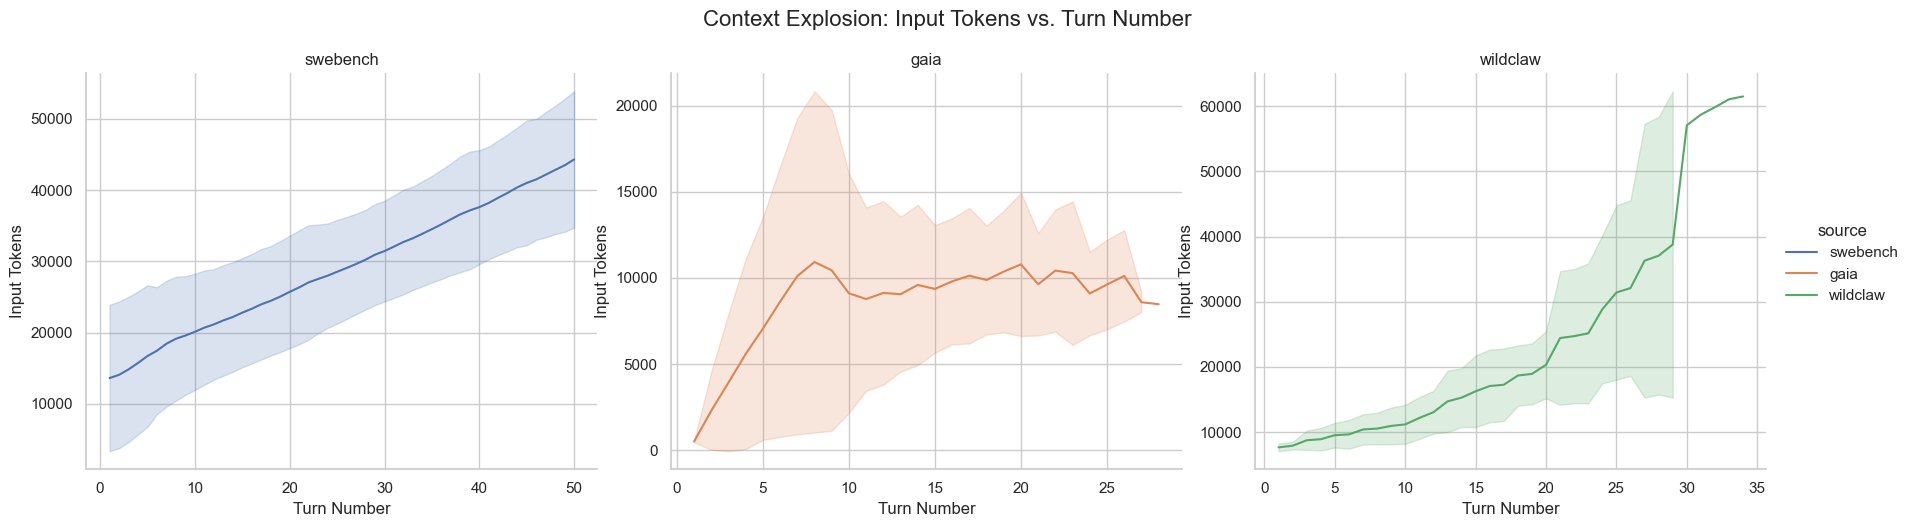
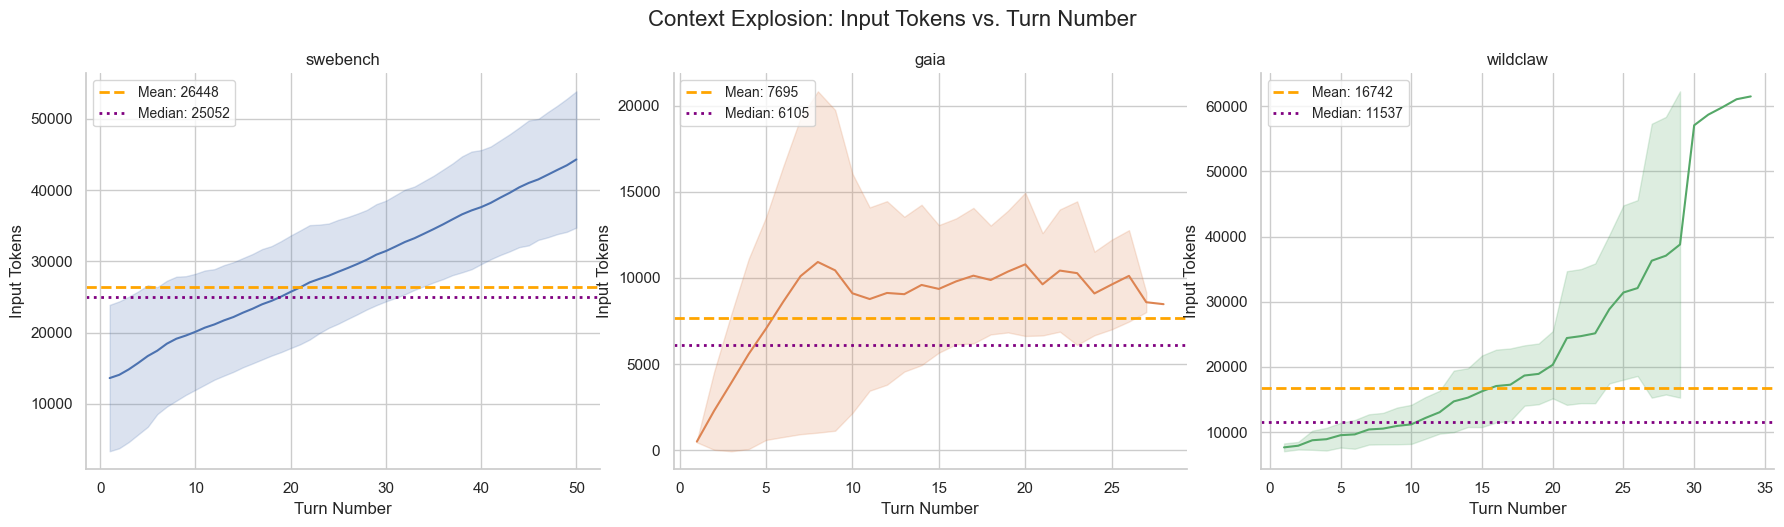
Fix token dist to be histogram

diff --git a/src/exploration/eda_analysis.py b/src/exploration/eda_analysis.py
@@ -88,27 +88,56 @@ class TelemetryEDA:
         plt.close()
         
     def analyze_token_distribution(self):
-        """Analyzes the distribution of input vs. output tokens."""
-        logging.info("Analyzing input vs. output token distribution...")
-        if not all(col in self.df.columns for col in ['input_tokens', 'output_length']):
-            logging.warning("Missing 'input_tokens' or 'output_length' columns. Skipping token distribution.")
-            return
+        """
+        Plots the distribution of input vs output tokens using column plots (histograms),
+        divided into two side-by-side subplots with lines for Mean and Median.
+        """
+        logging.info("Generating Token Distribution Column Plots...")
+        
+        # Create a figure with two subplots side-by-side (1 row, 2 columns)
+        fig, axes = plt.subplots(1, 2, figsize=(16, 6))
 
-        # Melting the dataframe for side-by-side seaborn plotting
-        token_df = self.df[['input_tokens', 'output_length']].melt(
-            var_name='Token Type', value_name='Token Count'
-        )
+        # ---------------------------------------------------------
+        # Subplot 1: Input Tokens (Column Plot)
+        # ---------------------------------------------------------
+        # Using histplot without KDE to render strict columns
+        sns.histplot(data=self.df, x='input_tokens', bins=40, color='skyblue', ax=axes[0])
+        
+        input_mean = self.df['input_tokens'].mean()
+        input_median = self.df['input_tokens'].median()
+        
+        # Draw Mean and Median lines
+        axes[0].axvline(input_mean, color='red', linestyle='--', linewidth=2.5, label=f'Mean: {input_mean:.0f}')
+        axes[0].axvline(input_median, color='green', linestyle='-', linewidth=2.5, label=f'Median: {input_median:.0f}')
+        
+        axes[0].set_title('Column Distribution: Input Tokens', fontsize=14, fontweight='bold')
+        axes[0].set_xlabel('Input Tokens')
+        axes[0].set_ylabel('Frequency (Count)')
+        axes[0].legend(loc='upper right')
 
-        plt.figure(figsize=(10, 6))
-        # Log scale boxplot to better visualize distributions without massive outliers warping the view
-        sns.boxplot(data=token_df, x='Token Type', y='Token Count', palette='Set2')
-        plt.yscale('log')
-        plt.title('Distribution: Input vs. Output Tokens (Log Scale)')
-        plt.ylabel('Token Count (Log Scale)')
-        plt.xlabel('')
+        # ---------------------------------------------------------
+        # Subplot 2: Output Tokens (Column Plot)
+        # ---------------------------------------------------------
+        sns.histplot(data=self.df, x='output_length', bins=40, color='lightcoral', ax=axes[1])
+        
+        output_mean = self.df['output_length'].mean()
+        output_median = self.df['output_length'].median()
+        
+        # Draw Mean and Median lines
+        axes[1].axvline(output_mean, color='red', linestyle='--', linewidth=2.5, label=f'Mean: {output_mean:.0f}')
+        axes[1].axvline(output_median, color='green', linestyle='-', linewidth=2.5, label=f'Median: {output_median:.0f}')
+        
+        axes[1].set_title('Column Distribution: Output Tokens', fontsize=14, fontweight='bold')
+        axes[1].set_xlabel('Output Tokens')
+        axes[1].set_ylabel('Frequency (Count)')
+        axes[1].legend(loc='upper right')
+
+        # Format and Save the plot
         plt.tight_layout()
-        plt.savefig(os.path.join(self.output_dir, 'token_distribution.png'))
+        save_path = os.path.join(self.output_dir, 'token_column_distribution.png')
+        plt.savefig(save_path, dpi=300)
         plt.close()
+        logging.info(f"Column plot saved successfully to {save_path}")
 
     def analyze_latency_bottlenecks(self):
         """Investigates latency (pre_gap) distributions using logarithmic scaling."""
